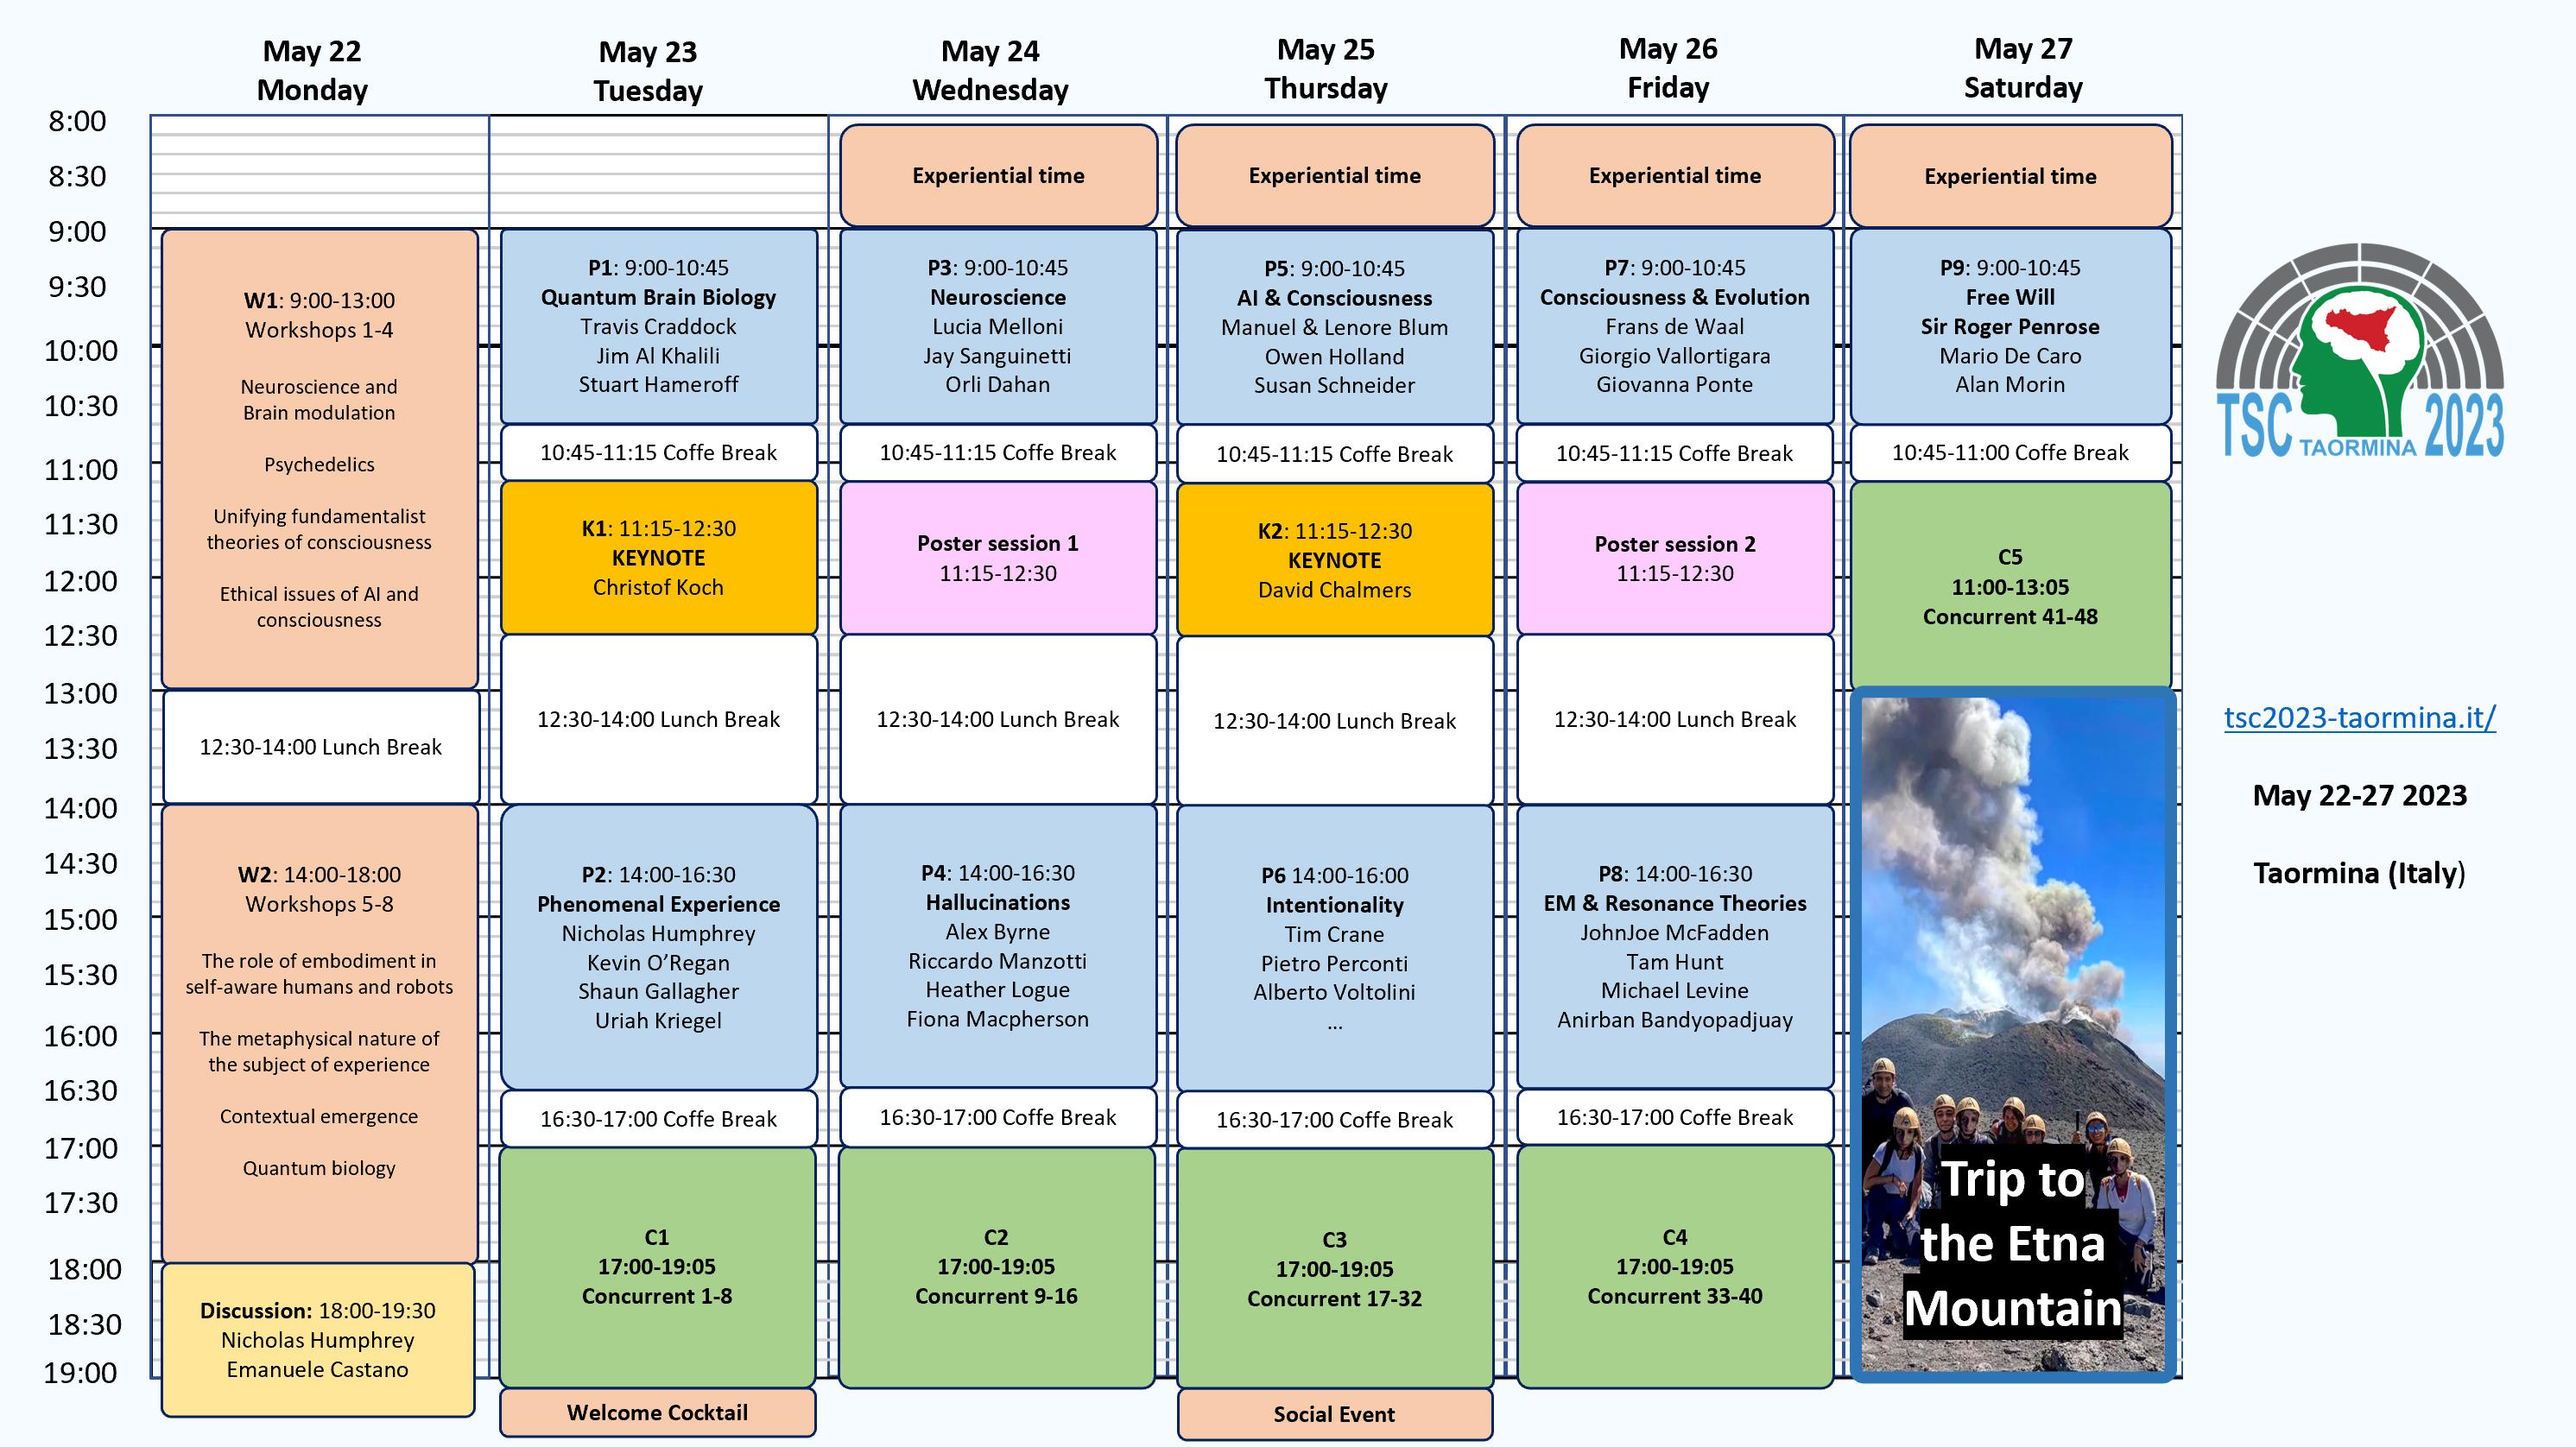
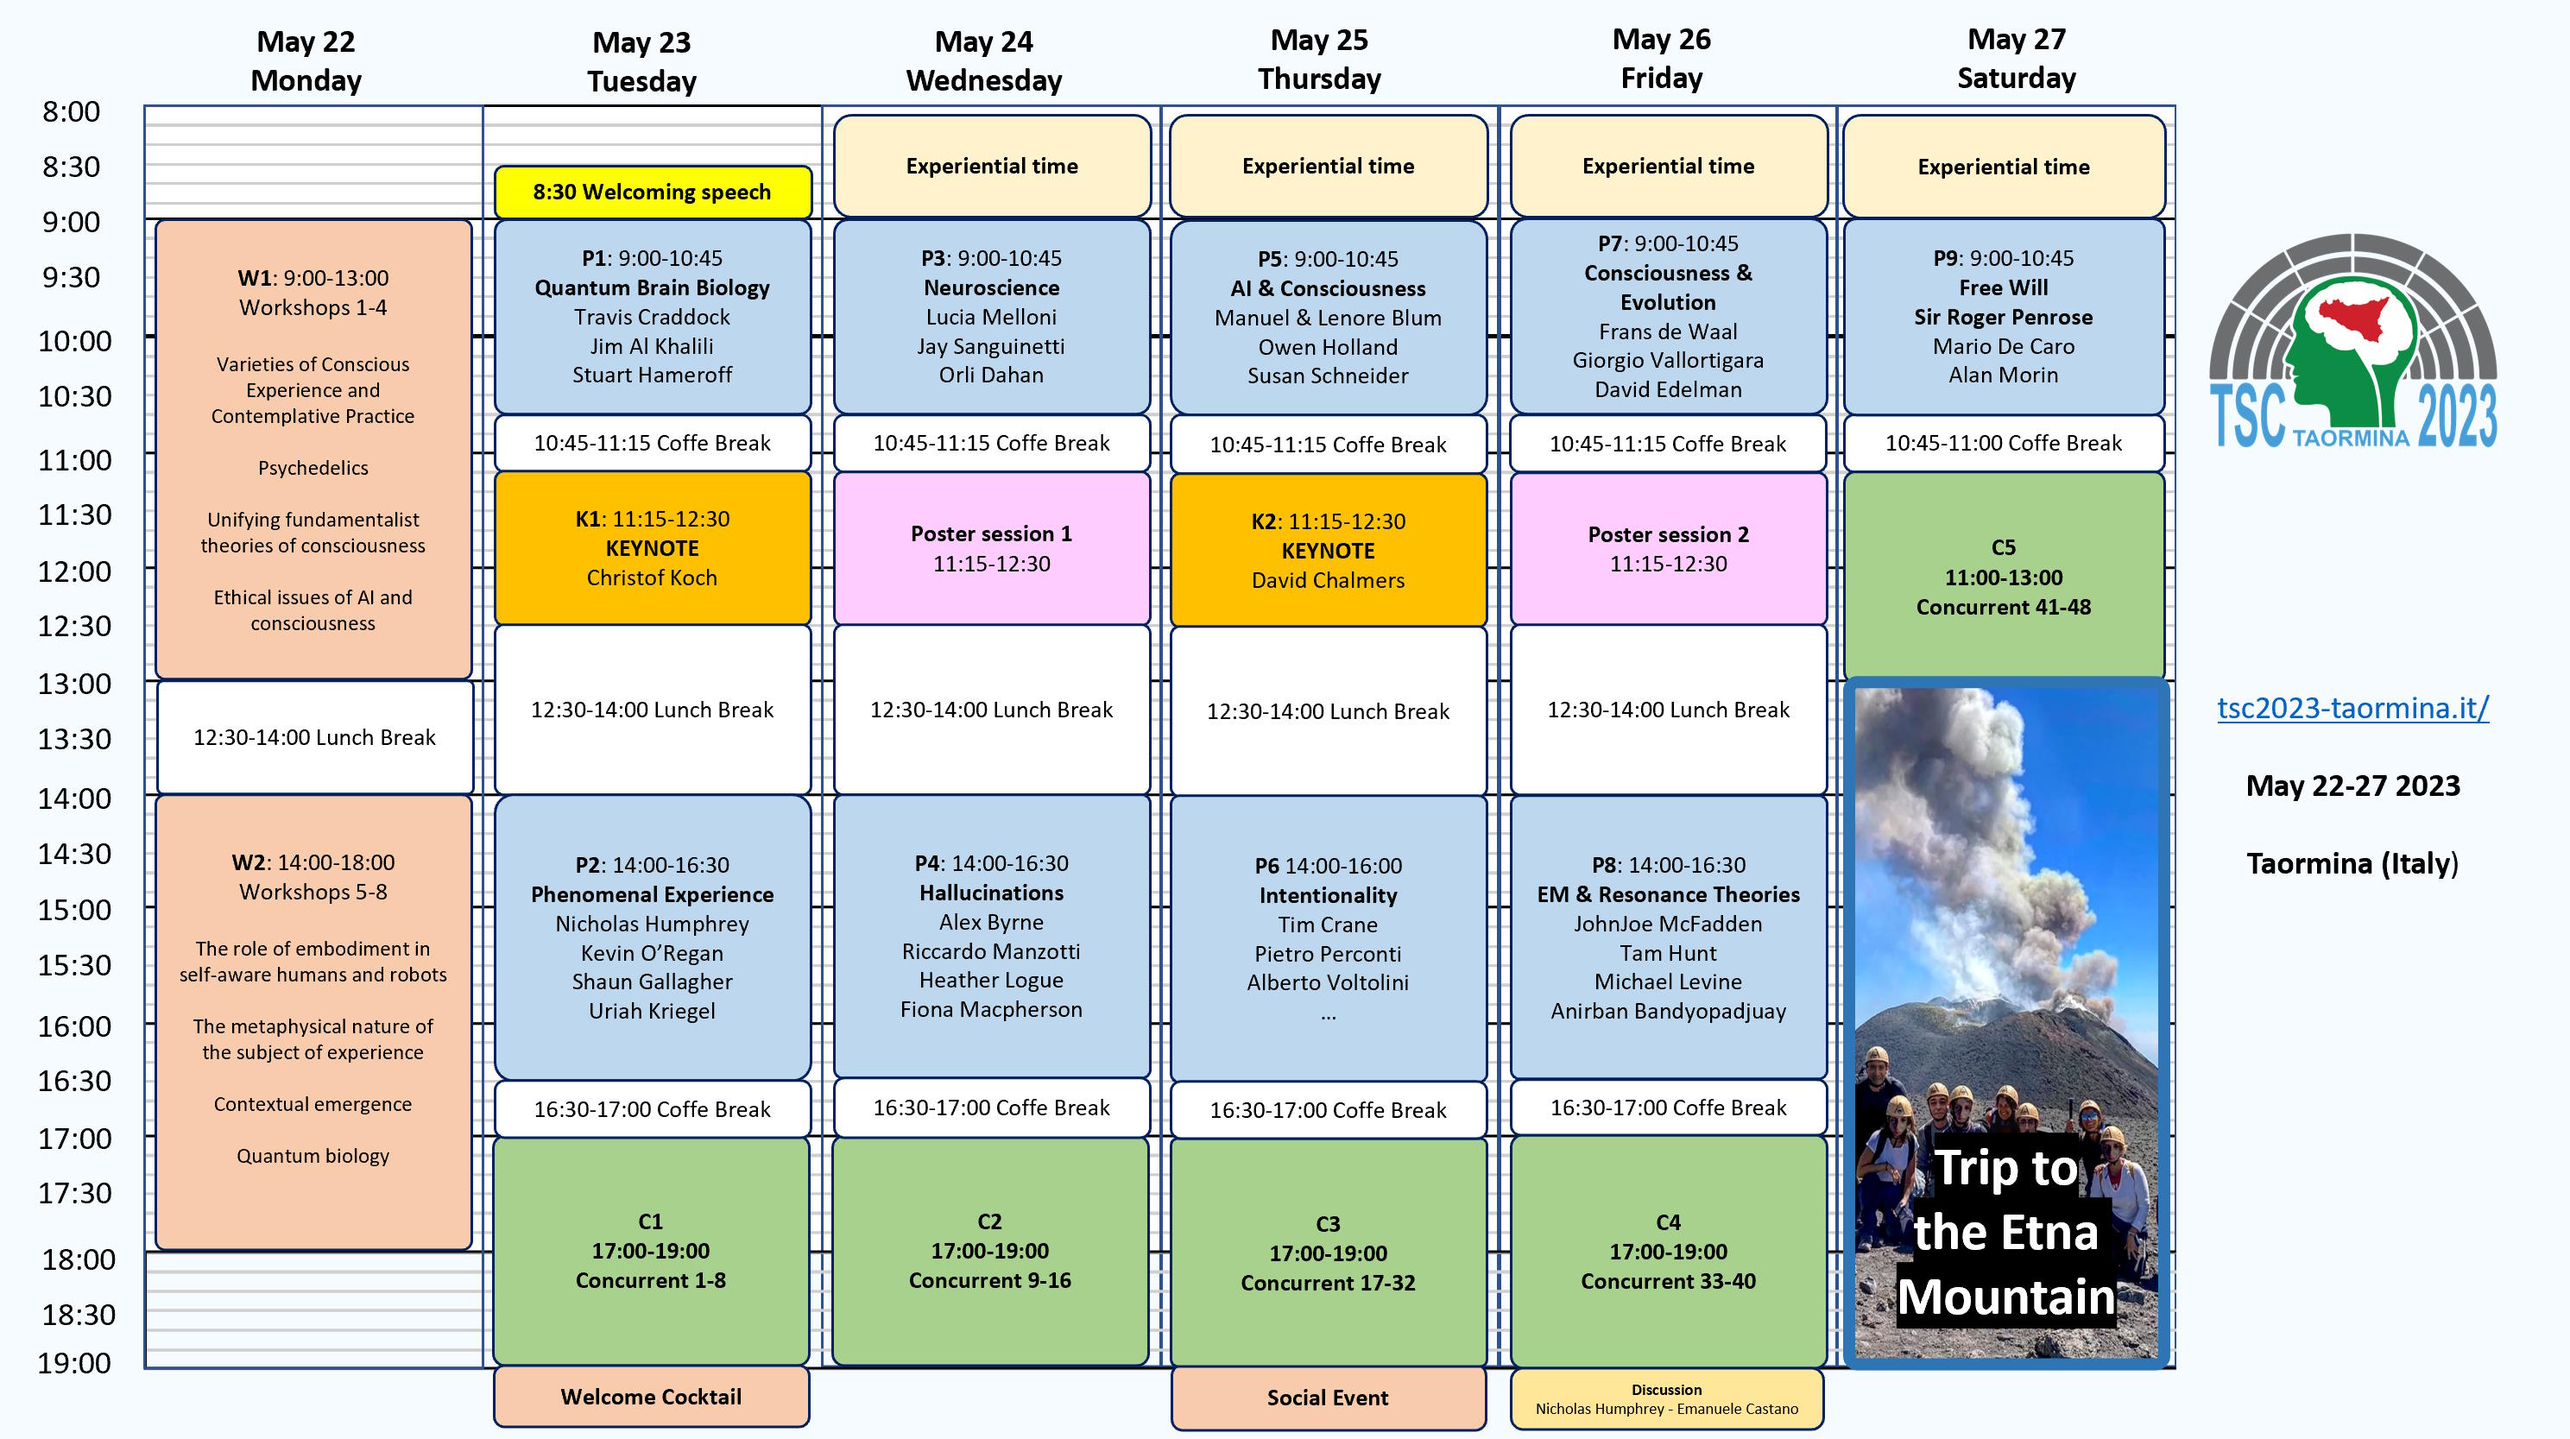
new program

Changed region(s): [[0.0, 0.0, 0.9684, 0.9982], [0.7497, 0.3743, 0.8122, 0.4367], [0.8747, 0.5927, 0.9684, 0.6239]]

diff --git a/program.html b/program.html
@@ -118,7 +118,7 @@ License URL: http://creativecommons.org/licenses/by/3.0/
 					Tim Crane - Pietro Perconti - Alberto Voltolini - Uriah Kriegel
 					<br><br>
 					<strong>Conscious & Evolution</strong><br>
-					Frans de Waal - Giorgio Vallortigara
+					Frans de Waal - Giorgio Vallortigara - David Edelman
 					<br><br>
 					<strong>E-M & Resonance Theories</strong><br>
 					Johnjoe McFadden - Tam Hunt - Michael Levin - Anirban Bandyopadhyay
